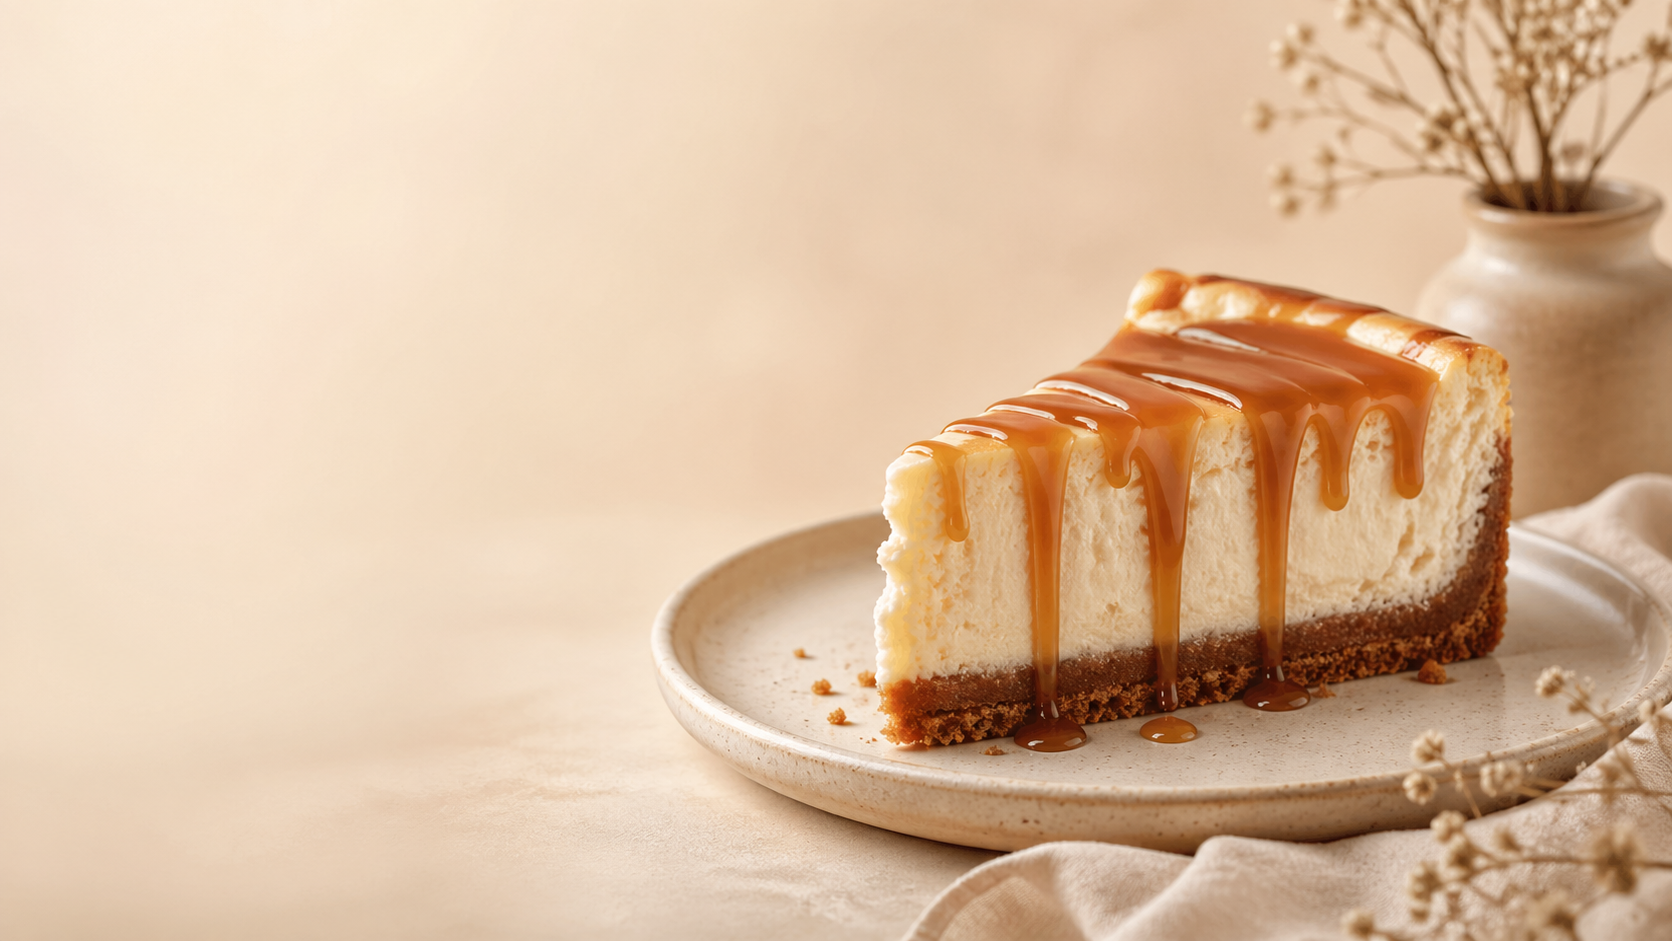
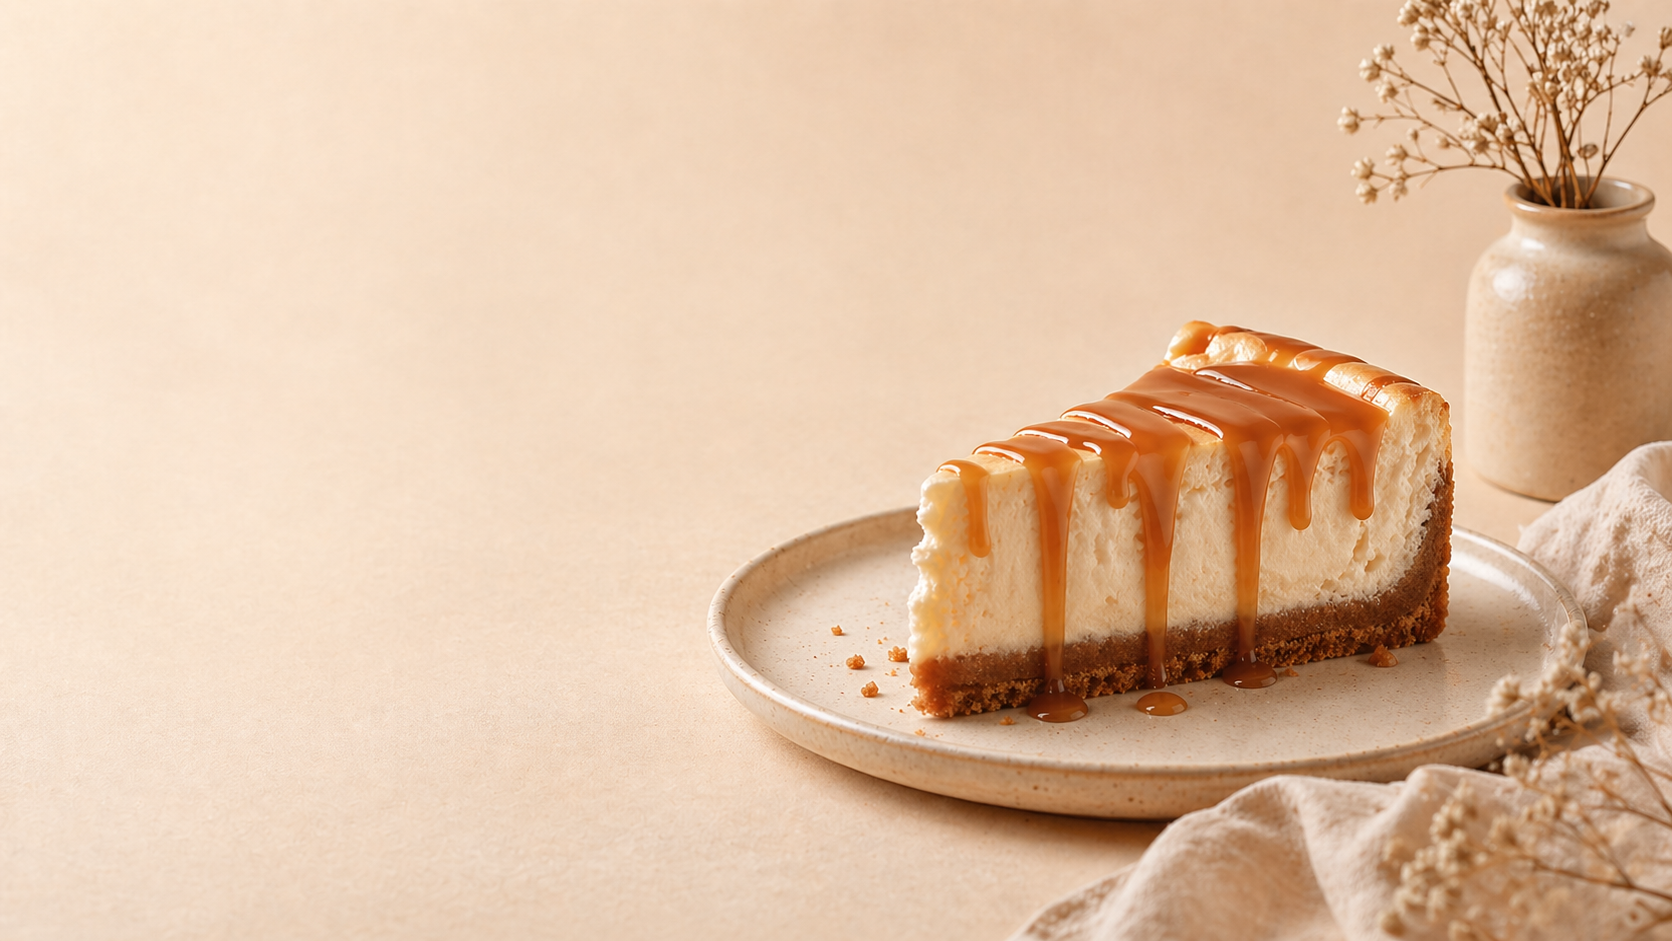
feat: hero-section-asymmetric-layout-with-gradient-fade
- Implement asymmetric desktop layout: text left, image right (55vw width)
- Add smooth gradient overlay fade (cream to transparent)
- Improve vertical centering for all viewport sizes
- Optimize mobile layout with adjusted padding and image positioning
- Adjust hero image object-position for better product visibility

Changed region(s): [[0.3732, 0.0, 1.0, 1.0], [0.0, 0.8937, 0.1555, 1.0], [0.0, 0.8013, 0.0311, 0.8321]]

diff --git a/src/components/sections/HeroSection.tsx b/src/components/sections/HeroSection.tsx
@@ -1,4 +1,5 @@
 import type { HeroContent } from "../../types/content";
+import { InstagramIcon, WhatsAppIcon } from "../ui/BrandIcons";
 import { ButtonLink } from "../ui/ButtonLink";
 
 type HeroSectionProps = {
@@ -13,19 +14,19 @@ export function HeroSection({ content }: HeroSectionProps) {
   return (
     <section id="inicio" className="relative isolate overflow-hidden bg-[#FDF5F0]">
       {/* Mobile image layer */}
-      <div className="pointer-events-none absolute bottom-0 inset-x-0 z-0 h-[470px] overflow-hidden sm:h-[500px] lg:hidden">
+      <div className="pointer-events-none absolute bottom-0 inset-x-0 z-0 h-[650px] overflow-hidden sm:h-[680px] lg:hidden">
         <img
           src={content.heroImage}
           alt={content.heroImageAlt}
-          className="absolute inset-0 z-0 h-full w-full object-cover object-[78%_center] sm:object-[74%_center]"
+          className="absolute inset-0 z-0 h-full w-full object-cover object-[76%_42%] sm:object-[72%_42%]"
         />
-        <div className="absolute inset-x-0 top-0 z-[1] h-44 bg-gradient-to-b from-[#FDF5F0] via-[#FDF5F0]/60 to-transparent sm:h-48" />
+        <div className="absolute inset-x-0 top-0 z-[1] h-60 bg-gradient-to-b from-[#FDF5F0] via-[#FDF5F0]/60 to-transparent sm:h-64" />
         <div className="absolute inset-y-0 left-0 z-[1] w-[72%] bg-gradient-to-r from-[#FDF5F0] via-[#FDF5F0]/45 to-transparent sm:w-[62%]" />
         <div className="absolute inset-x-0 bottom-0 z-[1] h-24 bg-gradient-to-t from-[#FDF5F0] via-[#FDF5F0]/20 to-transparent" />
       </div>
 
       {/* Mobile content */}
-      <div className="relative z-10 flex flex-col px-5 pb-[430px] pt-20 sm:px-10 sm:pb-[455px] sm:pt-20 lg:hidden">
+      <div className="relative z-10 flex flex-col px-5 pb-[455px] pt-12 sm:px-10 sm:pb-[480px] sm:pt-12 lg:hidden">
         <div className="relative z-10 w-full max-w-[34rem]">
           <p className="mb-4 font-body text-xs font-semibold uppercase text-brand-lavender sm:text-sm">
             {content.eyebrow}
@@ -48,10 +49,11 @@ export function HeroSection({ content }: HeroSectionProps) {
         </div>
       </div>
 
-      <div className="absolute inset-x-5 bottom-8 z-10 flex flex-col gap-2.5 sm:inset-x-10 sm:bottom-10 sm:flex-row sm:gap-3 lg:hidden">
+      <div className="absolute inset-x-5 bottom-3 z-10 flex flex-col gap-2 sm:inset-x-10 sm:bottom-5 sm:flex-row sm:gap-3 lg:hidden">
         <ButtonLink
           href={content.primaryCta.href}
           className="!min-h-11 !py-2.5 w-full px-6 sm:w-auto"
+          icon={<WhatsAppIcon className="size-4 text-white" />}
         >
           {content.primaryCta.label}
         </ButtonLink>
@@ -59,6 +61,7 @@ export function HeroSection({ content }: HeroSectionProps) {
           href={content.secondaryCta.href}
           variant="secondary"
           className="!min-h-11 !py-2.5 w-full px-6 sm:w-auto"
+          icon={<InstagramIcon className="size-4" />}
         >
           {content.secondaryCta.label}
         </ButtonLink>
@@ -87,10 +90,18 @@ export function HeroSection({ content }: HeroSectionProps) {
             {content.description}
           </p>
           <div className="mt-9 flex flex-row gap-3">
-            <ButtonLink href={content.primaryCta.href} className="px-8">
+            <ButtonLink
+              href={content.primaryCta.href}
+              className="px-8"
+              icon={<WhatsAppIcon className="size-4 text-white" />}
+            >
               {content.primaryCta.label}
             </ButtonLink>
-            <ButtonLink href={content.secondaryCta.href} variant="secondary">
+            <ButtonLink
+              href={content.secondaryCta.href}
+              variant="secondary"
+              icon={<InstagramIcon className="size-4" />}
+            >
               {content.secondaryCta.label}
             </ButtonLink>
           </div>
@@ -103,11 +114,11 @@ export function HeroSection({ content }: HeroSectionProps) {
           <img
             src={content.heroImage}
             alt={content.heroImageAlt}
-            className="h-full w-full object-cover object-[64%_center]"
+            className="h-full w-full object-cover object-[100%_center]"
           />
         </div>
-        <div className="absolute inset-y-0 left-0 z-[1] w-[46%] bg-gradient-to-r from-[#FDF5F0] via-[#FDF5F0]/75 to-transparent" />
-        <div className="absolute inset-x-0 top-0 z-[1] h-32 bg-gradient-to-b from-[#FDF5F0]/70 to-transparent" />
+        <div className="absolute inset-y-0 left-0 z-[1] w-[48%] bg-gradient-to-r from-[#FDF5F0] via-[#FDF5F0]/75 to-transparent" />
+        <div className="absolute inset-x-0 top-0 z-[1] " />
       </div>
     </section>
   );
